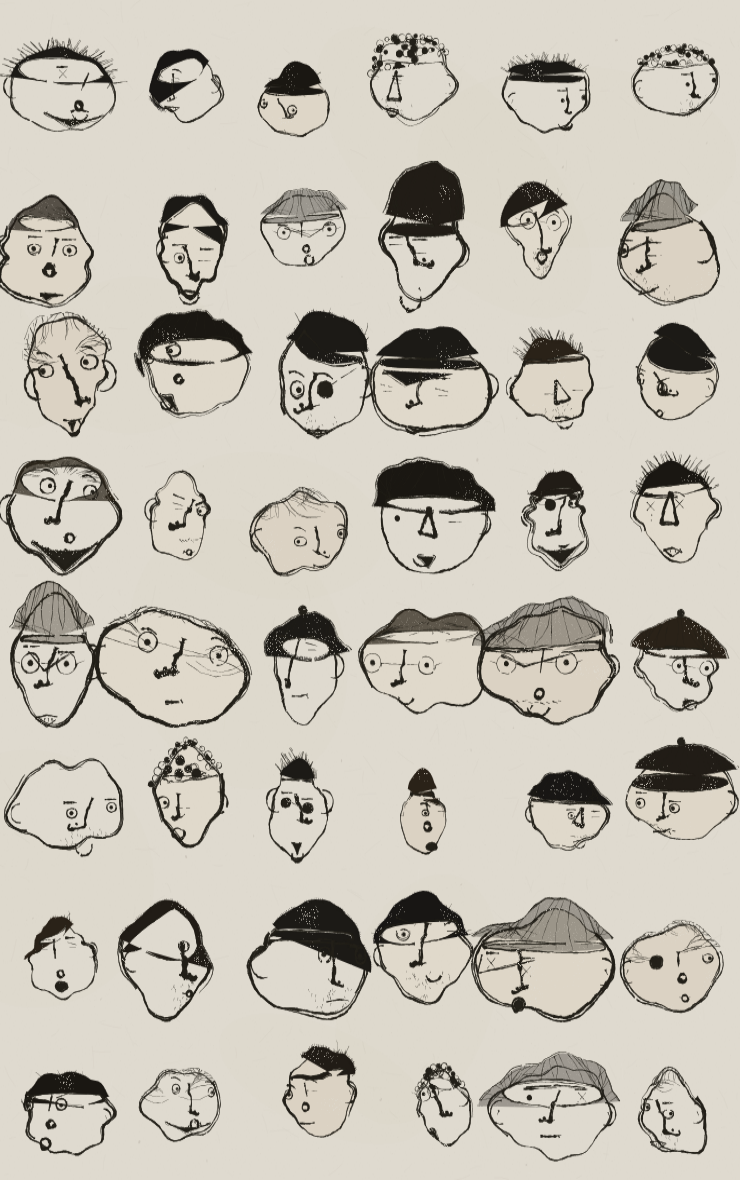
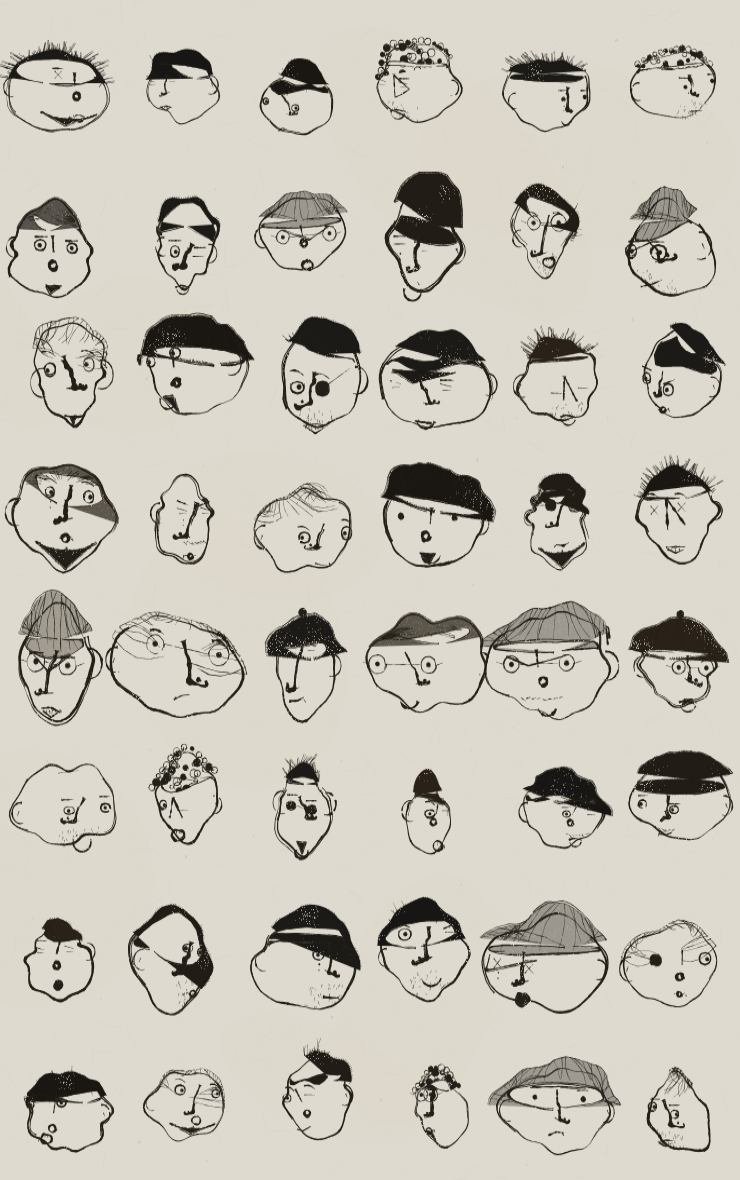
Gauntlet: pure line, decisive strokes, hairlines with shapes
- Colour fills are gone. The reference plates have none; value comes from
  hatching and solid black only, and a sage shirt under an ink head
  announces two different tools.
- Fewer strokes, harder. The critic's note was that the fraying was doing
  the damage: filament flanks now only appear on wide strokes, restated
  contours fire less often, dryness is down and wobble amplitude is down.
  One committed line instead of six nervous ones.
- Hairlines have shapes of their own — peak, round, sweep, receded,
  jagged, low — so the black mass is not the same crescent forty times.
- The triangle nose was a stamped glyph. It is now a wedge drawn in two
  or three separate goes with independent proportions.
- The figure is asymmetric: shoulders, arm lengths and leg placement all
  disagree side to side, and arm width wanders along its length.
- The figure sits lower and larger on the sheet; the name is clamped so
  it cannot run off the edge.

Claude-Session: https://claude.ai/code/session_01RJWY9ufwnD6fjwW6ve4one

diff --git a/dude.js b/dude.js
@@ -132,7 +132,7 @@
     if (n < 2) return;
 
     // hand wobble, applied along the path normal so corners survive
-    const amp = opt.wobble ?? Math.min(2.9, 0.34 + L * 0.017);
+    const amp = opt.wobble ?? Math.min(2.0, 0.26 + L * 0.011);
     const N0 = normals(S);
     const P = new Array(n);
     for (let i = 0; i < n; i++) {
@@ -180,7 +180,7 @@
       // the nib lifts rarely and briefly; a dashed line is a broken pen,
       // not a dry one. Thin strokes skip more than fat ones.
       const dry = fbm2(u * 0.19 + 11, sd * 0.02, sd + 137);
-      const thr = 0.155 * dryK * (w < 1.3 ? 1.35 : w > 2.6 ? 0.6 : 1);
+      const thr = 0.125 * dryK * (w < 1.3 ? 1.4 : w > 2.6 ? 0.5 : 1);
       live[i] = !(dryK > 0 && dry < thr && i > 1 && i < n - 2);
     }
 
@@ -228,14 +228,10 @@
       }
     };
 
-    band(0, 0.68, sd, 0);
-    if (w > 0.9) {
-      band(-0.34, 0.34, sd + 401, 0.4);
-      band(0.34, 0.34, sd + 733, 0.42);
-    }
-    if (w > 2.2) {
-      band(-0.5, 0.22, sd + 907, 0.55);
-      band(0.5, 0.22, sd + 1213, 0.57);
+    band(0, 0.82, sd, 0);
+    if (w > 1.7) {
+      band(-0.32, 0.3, sd + 401, 0.45);
+      band(0.32, 0.3, sd + 733, 0.47);
     }
     // pools where the nib lingered
     for (let k = 3; k < n - 3; k += 2) {
@@ -254,7 +250,7 @@
     nib(c, rng, path, opt);
     // A contour the hand traced twice all the way round. Every head in the
     // reference plates is two lines that touch and part, not one.
-    if (opt.doubled && rng.chance(0.72)) {
+    if (opt.doubled && rng.chance(0.4)) {
       const dn = normals(path);
       const off = rng.f(1.0, 2.1) * (rng.chance(0.5) ? 1 : -1);
       const moved = path.map((q, i) => {
@@ -782,12 +778,12 @@
     const w0 = skull.s * 0.03 * (skull.pen || 1);
     const cranium = arc(-ov, Math.round(n * 0.5) + ov);
     const jaw = arc(Math.round(n * 0.5) - ov, n + ov);
-    inkPoly(c, rng, cranium, { w: w0 * rng.f(0.85, 1.02), dry: 0.45, doubled: rng.chance(0.55) });
-    inkPoly(c, rng, jaw, { w: w0 * rng.f(1.1, 1.4), dry: 0.35, doubled: rng.chance(0.7) });
+    inkPoly(c, rng, cranium, { w: w0 * rng.f(0.88, 1.05), dry: 0.3, doubled: rng.chance(0.35) });
+    inkPoly(c, rng, jaw, { w: w0 * rng.f(1.15, 1.45), dry: 0.22, doubled: rng.chance(0.42) });
     if (rng.chance(0.35)) {
       // a cheek restated on one side only
       const a0 = Math.round(n * rng.f(0.02, 0.12));
-      inkPoly(c, rng, arc(a0, a0 + Math.round(n * rng.f(0.12, 0.26))), { w: w0 * 0.75, dry: 1.2 });
+      inkPoly(c, rng, arc(a0, a0 + Math.round(n * rng.f(0.12, 0.26))), { w: w0 * 0.7, dry: 0.9 });
     }
 
     const earL = pin(skull, { x: -0.92, y: 0.02, z: 0.05 });
@@ -841,6 +837,15 @@
       const temple = Math.pow(Math.abs(Math.sin(u)), 1.4);
       const center = Math.max(0, Math.cos(u));
       let y = lineY - recede * temple + bangs * center + sideBias * Math.sin(u);
+      // A hairline has a shape of its own — a peak, a sweep, a jagged cut —
+      // otherwise every black mass on the sheet is the same crescent.
+      const sh = opt.shape;
+      if (sh === "peak") y += Math.pow(center, 2.2) * 0.16 - temple * 0.05;
+      else if (sh === "round") y -= center * 0.11;
+      else if (sh === "sweep") y += Math.sin(u) * 0.19 + center * 0.04;
+      else if (sh === "receded") y += Math.pow(center, 1.6) * 0.1 - temple * 0.16;
+      else if (sh === "jagged") y += (Math.round(Math.sin(u * 4.7 + 1.3) * 2) / 2) * 0.07;
+      else if (sh === "low") y += 0.07 - temple * 0.03;
       y += (fbm2(u * 1.6 + 4, skull.yaw * 2 + (rng.seed % 53) * 0.07, rng.seed) - 0.5) * wob * 2;
       y = clamp(y, -0.95, 0.3);
       const p = pin(skull, sphere(u, Math.asin(clamp(y, -0.995, 0.995))));
@@ -1007,8 +1012,9 @@
 
   function drawHair(c, rng, skull, hull, style, color) {
     const s = skull.s;
+    const shape = rng.pick(["flat", "peak", "peak", "round", "sweep", "receded", "jagged", "low"]);
     const mk = (opt) => {
-      const h = hairMass(skull, hull, rng, opt);
+      const h = hairMass(skull, hull, rng, Object.assign({ shape }, opt));
       if (h) {
         h._cx = skull.cx;
         h._cy = skull.cy;
@@ -1380,12 +1386,16 @@
     };
 
     if (style === "tri") {
-      inkPoly(c, rng, [A(0, rng.f(-3, 3)), A(drop, -s * 0.19 * lean), A(drop, s * 0.19 * lean)], {
-        closed: true,
-        w: w * 0.9,
-        passes: 2,
-        dry: 0.4,
-      });
+      // a wedge, drawn in two goes, never the same triangle twice
+      const apex = A(rng.f(-0.04, 0.06) * s, rng.f(-4, 4));
+      const wL = A(drop * rng.f(0.86, 1.0), -s * rng.f(0.12, 0.24) * lean);
+      const wR = A(drop * rng.f(0.9, 1.06), s * rng.f(0.14, 0.26) * lean);
+      inkPoly(c, rng, [apex, wL], { w: w * rng.f(0.8, 1.05), dry: 0.35 });
+      inkPoly(c, rng, [apex, wR], { w: w * rng.f(0.7, 0.95), dry: 0.4 });
+      if (rng.chance(0.78)) {
+        inkPoly(c, rng, [wL, A(drop * 1.02, rng.f(-3, 3)), wR], { w: w * rng.f(0.6, 0.9), dry: 0.5 });
+      }
+      if (rng.chance(0.4)) inkCirc(c, rng, wR.x, wR.y, s * 0.02, w * 0.45, true);
       return;
     }
 
@@ -1626,10 +1636,14 @@
     const kneeY = hipY + s * rng.f(0.85, 1.05);
     const footY = hipY + s * rng.f(1.7, 2.05);
     const aw0 = rng.f(0.17, 0.22);
-    const armR = (t) => s * (aw0 - (aw0 - rng.f(0.075, 0.1)) * Math.pow(t, 0.8));
+    const armR = (t) => s * (aw0 - (aw0 - 0.082) * Math.pow(t, 0.75)) * (0.94 + 0.12 * fbm2(t * 3.4, aw0 * 90, 991));
     const legR = (t) => s * (rng.f(0.18, 0.23) - 0.065 * t);
     const pose = clothes.pose;
     const shrug = rng.f(-0.06, 0.1);
+    // no two sides of a drawn person agree
+    const asymL = rng.f(0.86, 1.14);
+    const asymR = rng.f(0.86, 1.14);
+    const asym = (side) => (side < 0 ? asymL : asymR);
 
     const P = (x, y) => ({ x: cx + x + lx * (y - neckY) / (s * 2), y });
 
@@ -1646,17 +1660,18 @@
         return [sh, P(side * (shW + s * 0.14), shY + s * 0.62), P(-side * s * 0.16, shY + s * 0.95)];
       }
       // hanging
+      const a = asym(side);
       return [
         sh,
-        P(side * (shW + s * rng.f(0.02, 0.13)), shY + s * rng.f(0.72, 0.92)),
-        P(side * (shW + s * rng.f(-0.02, 0.2)), shY + s * rng.f(1.5, 1.78)),
+        P(side * (shW + s * rng.f(0.02, 0.13)) * a, shY + s * rng.f(0.72, 0.92) * a),
+        P(side * (shW + s * rng.f(-0.02, 0.2)) * a, shY + s * rng.f(1.5, 1.78) * a),
       ];
     };
 
     const leg = (side) => {
       const drop = footY + s * rng.f(-0.09, 0.09);
       return [
-        P(side * hipW * rng.f(0.48, 0.62), hipY - s * 0.05),
+        P(side * hipW * rng.f(0.48, 0.62) * asym(side), hipY - s * 0.05),
         P(side * (hipW * 0.5 + s * rng.f(-0.14, 0.1)), kneeY + s * rng.f(-0.1, 0.1)),
         P(side * (hipW * 0.46 + s * rng.f(-0.16, 0.16)), drop),
       ];
@@ -1685,8 +1700,8 @@
     // ---- one continuous silhouette ----
     const neckL = P(-s * rng.f(0.15, 0.21), neckY - s * 0.42);
     const neckR = P(s * rng.f(0.15, 0.21), neckY - s * 0.42);
-    const shoulderL = P(-shW, shY + s * shrug * -1);
-    const shoulderR = P(shW, shY + s * shrug);
+    const shoulderL = P(-shW * asymL, shY + s * shrug * -1);
+    const shoulderR = P(shW * asymR, shY + s * shrug + s * rng.f(-0.06, 0.06));
     const waistL = P(-hipW * 1.02, shY + s * 1.25);
     const waistR = P(hipW * 1.02, shY + s * 1.25);
     const hipL = P(-hipW, hipY);
@@ -1868,14 +1883,15 @@
       ], { w: s * (wk ?? 0.014), dry: 0.9, wobble: s * 0.02 });
 
     for (let side = -1; side <= 1; side += 2) {
+      if (rng.chance(0.4)) continue; // not every shoulder gets one
       const sx0 = side < 0 ? shoulderL : shoulderR;
-      const n = rng.i(1, 3);
+      const n = rng.i(1, 2);
       for (let i = 0; i < n; i++) {
         fold(
-          sx0.x - side * s * rng.f(0.06, 0.2),
-          sx0.y + s * rng.f(0.12, 0.3),
-          sx0.x - side * s * rng.f(0.3, 0.55),
-          sx0.y + s * rng.f(0.45, 0.8)
+          sx0.x - side * s * rng.f(0.1, 0.28),
+          sx0.y + s * rng.f(0.16, 0.4),
+          sx0.x - side * s * rng.f(0.34, 0.7),
+          sx0.y + s * rng.f(0.5, 1.0)
         );
       }
     }
@@ -1913,12 +1929,12 @@
           ], { w: heavy, dry: 0.5, wobble: s * 0.03 });
         }
       } else if (clothes.pattern === "vstripe") {
-        for (let x = cx - shW * 1.3; x < cx + shW * 1.3; x += pitch) {
+        for (let x = cx - shW * 1.3; x < cx + shW * 1.3; x += pitch * rng.f(0.75, 1.3)) {
           inkPoly(c, rng, [
-            { x, y: shY - s * 0.1 },
+            { x, y: shY + s * rng.f(-0.1, 0.15) },
             { x: x + rng.f(-4, 4), y: (shY + hemY) / 2 },
-            { x: x + rng.f(-5, 5), y: hemY + s * 0.1 },
-          ], { w: heavy * 0.7, dry: 0.6, wobble: s * 0.03 });
+            { x: x + rng.f(-5, 5), y: hemY - s * rng.f(-0.1, 0.2) },
+          ], { w: heavy * 0.42, dry: 0.9, wobble: s * 0.03 });
         }
       } else if (clothes.pattern === "dark") {
         // a black garment, so the bottom of the page carries weight too
@@ -2201,14 +2217,16 @@
       "recede", "bald",
     ];
     const eyeStyles = ["open", "open", "open", "open", "dot", "dot", "slit", "angry", "x", "glasses", "glasses", "shades", "patch", "wink"];
-    const noseStyles = ["long", "long", "long", "long", "hook", "hook", "hook", "tri", "button"];
+    const noseStyles = ["long", "long", "long", "long", "long", "hook", "hook", "hook", "hook", "tri", "button", "button"];
     const mouthStyles = ["smile", "smile", "frown", "open", "open", "teeth", "smirk", "lips", "pucker", "line", "line"];
     const beardStyles = ["none", "none", "none", "stache", "goatee", "beard", "stubble"];
     const clothesKinds = ["tee", "hoodie", "jacket", "sweater"];
     const poses = ["down", "down", "pockets", "hips", "folded"];
-    const washes = [null, "#e8c4a8", "#c4a07a", "#9aa87a", "#b9c4c8", "#d8b090"];
+    // Value comes from hatching and solid black. The reference sheets have no
+    // fill at all, and a sage shirt under an ink head reads as two media.
+    const washes = [null];
     const hairColors = ["#1a1712", "#211c16", "#181614", "#2a2218", "#1c1a16"];
-    const skins = [null, "#e8d2bc", "#d8c0a4", "#c9a888", null];
+    const skins = [null];
 
     return {
       name: rng.chance(0.55) ? rng.pick(FIRST) : `${rng.pick(FIRST)} ${rng.pick(LAST)}`,
@@ -2253,7 +2271,7 @@
     paper(c, w, h, rng);
     const s = dude.size;
     const cx = w * rng.f(0.38, 0.48) + rng.f(-8, 8);
-    const cy = h * 0.245 + rng.f(-10, 10);
+    const cy = h * 0.225 + rng.f(-10, 10);
 
     const skull = new Skull(cx, cy, s, dude.yaw, dude.pitch, dude.roll, dude.ratio, dude.depth, {
       jaw: dude.jaw,
@@ -2275,7 +2293,7 @@
     skull.faceY = dude.faceY;
     skull.gaze = dude.gaze;
     skull.eyeGap = dude.eyeGap;
-    const body = drawBody(c, rng, cx, cy + s * 1.18, s * 0.8, dude.lean + dude.yaw * 0.25, dude.clothes);
+    const body = drawBody(c, rng, cx, cy + s * 1.18, s * 0.9, dude.lean + dude.yaw * 0.25, dude.clothes);
     const hull = drawHead(c, rng, skull, dude.skin);
     drawHair(c, rng, skull, hull, dude.hair, dude.hairColor);
     drawBrows(c, rng, skull, dude.brows);
@@ -2303,7 +2321,8 @@
       nameX = cx + s * rng.f(1.0, 1.35);
       nameY = cy + s * rng.f(0.1, 0.6);
     }
-    nameX = Math.max(16, Math.min(w - size * String(dude.name).length * 0.95 - 14, nameX));
+    const nameW = size * (String(dude.name).length * 0.92 + 0.6);
+    nameX = Math.max(16, Math.min(w - nameW - 12, nameX));
     nameY = Math.max(size * 1.2, Math.min(h - size * 1.6, nameY));
     drawName(c, rng, dude.name, nameX, nameY, size);
     grainPass(c);
@@ -2326,9 +2345,9 @@
       for (let col = 0; col < cols; col++) {
         const rng = new Rng((seed0 + (r * cols + col) * 7919) >>> 0);
         const d = makeDude(rng);
-        const s = Math.min(cw, ch) * rng.f(0.26, 0.42) * rowS;
-        const cx = cw * (col + 0.5) + rowDx + rng.f(-13, 13);
-        const cy = 18 + ch * (r + 0.5) + rowDy + rng.f(-11, 11);
+        const s = Math.min(cw, ch) * rng.f(0.27, 0.37) * rowS;
+        const cx = cw * (col + 0.5) + rowDx + rng.f(-7, 7);
+        const cy = 18 + ch * (r + 0.5) + rowDy + rng.f(-8, 8);
         const skull = new Skull(cx, cy, s, d.yaw, d.pitch, d.roll, d.ratio, d.depth, {
           jaw: d.jaw, chin: d.chin, crown: d.crown, cheek: d.cheek,
           lobeA: d.lobeA, lobeB: d.lobeB, lobeAmp: d.lobeAmp, lobePh: d.lobePh,

diff --git a/progress.html b/progress.html
@@ -7,29 +7,32 @@
 <style>
   :root { --paper:#dfdacf; --ink:#232019; }
   body { margin:0; background:var(--paper); color:var(--ink);
-         font:15px/1.55 ui-serif, Georgia, serif; }
-  main { max-width: 1080px; margin: 0 auto; padding: 40px 22px 90px; }
-  h1 { font-size: 30px; margin: 0 0 4px; letter-spacing: -0.01em; }
-  h2 { font-size: 20px; margin: 44px 0 10px; }
-  p.lede { margin: 0 0 30px; opacity: .75; }
-  .grid { display:grid; gap:14px; grid-template-columns: repeat(auto-fill, minmax(210px,1fr)); }
-  .grid img { width:100%; display:block; border:1px solid rgba(35,32,25,.18); }
+         font:15.5px/1.6 ui-serif, Georgia, serif; }
+  main { max-width: 1080px; margin: 0 auto; padding: 44px 22px 100px; }
+  h1 { font-size: 31px; margin: 0 0 6px; letter-spacing: -0.01em; }
+  h2 { font-size: 21px; margin: 50px 0 12px; }
+  h3 { font-size: 16px; margin: 26px 0 6px; }
+  p.lede { margin: 0 0 32px; opacity: .75; }
+  .grid { display:grid; gap:14px; grid-template-columns: repeat(auto-fill, minmax(205px,1fr)); }
+  .grid img { width:100%; display:block; border:1px solid rgba(35,32,25,.16); }
   .pair { display:grid; gap:16px; grid-template-columns: 1fr 1fr; align-items:start; }
-  .pair img { width:100%; display:block; border:1px solid rgba(35,32,25,.18); }
-  figcaption { font-size:12.5px; opacity:.65; padding-top:5px; }
-  ol { padding-left: 20px; }
-  li { margin-bottom: 9px; }
+  .pair img { width:100%; display:block; border:1px solid rgba(35,32,25,.16); }
+  figcaption { font-size:12.5px; opacity:.62; padding-top:5px; }
+  ol, ul { padding-left: 20px; }
+  li { margin-bottom: 10px; }
   code { background: rgba(35,32,25,.07); padding: 1px 5px; border-radius: 3px; font-size: 13px; }
-  .note { border-left: 2px solid rgba(35,32,25,.3); padding-left: 14px; opacity:.8; }
+  blockquote { margin: 10px 0 16px; border-left: 2px solid rgba(35,32,25,.3);
+               padding-left: 15px; opacity:.82; font-style: italic; }
+  .note { border-left: 2px solid rgba(35,32,25,.28); padding-left: 15px; opacity:.82; }
 </style>
 </head>
 <body>
 <main>
   <h1>a dude — progress</h1>
-  <p class="lede">Canvas 2D. One dude per click, drawn on a hidden 3D skull. The bar is Mannay's plates in <code>refs/</code>.</p>
+  <p class="lede">Canvas 2D. One dude per click, drawn on a hidden 3D skull. The bar is Mannay's plates in <code>refs/</code>. Nobody grades their own work here: every round is judged by critics with fresh context who are shown the sheets unlabelled and asked which they'd rather look at.</p>
 
   <h2>Plate mode — like for like</h2>
-  <p class="note">The fairest test is a sheet against a sheet. <code>index.html?plate=1</code> renders 48 heads on one page, the same format as the reference plates. Ours on the left, Mannay on the right.</p>
+  <p class="note">A sheet is only fairly judged against a sheet. <code>index.html?plate=1</code> renders 48 heads on one page in the same format as the reference plates, so the blind A/B is honest. Ours left, Mannay right.</p>
   <div class="pair">
     <figure style="margin:0"><img src="progress/shots/plate-2026.png" alt="our plate" /><figcaption>ours — <code>?plate=1&amp;s=2026</code></figcaption></figure>
     <figure style="margin:0"><img src="refs/mannay-sheet-1.jpg" alt="reference plate" /><figcaption>Mannay, sheet 1</figcaption></figure>
@@ -38,33 +41,50 @@
   <h2>Full dudes</h2>
   <div class="grid">
     <figure style="margin:0"><img src="progress/shots/s42.png" alt="seed 42" /><figcaption>s=42</figcaption></figure>
+    <figure style="margin:0"><img src="progress/shots/s88.png" alt="seed 88" /><figcaption>s=88</figcaption></figure>
     <figure style="margin:0"><img src="progress/shots/s777.png" alt="seed 777" /><figcaption>s=777</figcaption></figure>
     <figure style="margin:0"><img src="progress/shots/s1107.png" alt="seed 1107" /><figcaption>s=1107</figcaption></figure>
-    <figure style="margin:0"><img src="progress/shots/s2026.png" alt="seed 2026" /><figcaption>s=2026</figcaption></figure>
-    <figure style="margin:0"><img src="progress/shots/s4929.png" alt="seed 4929" /><figcaption>s=4929</figcaption></figure>
-    <figure style="margin:0"><img src="progress/shots/s88.png" alt="seed 88" /><figcaption>s=88</figcaption></figure>
-    <figure style="margin:0"><img src="progress/shots/s333.png" alt="seed 333" /><figcaption>s=333</figcaption></figure>
     <figure style="margin:0"><img src="progress/shots/s1500.png" alt="seed 1500" /><figcaption>s=1500</figcaption></figure>
+    <figure style="margin:0"><img src="progress/shots/s2026.png" alt="seed 2026" /><figcaption>s=2026</figcaption></figure>
+    <figure style="margin:0"><img src="progress/shots/s333.png" alt="seed 333" /><figcaption>s=333</figcaption></figure>
+    <figure style="margin:0"><img src="progress/shots/s4929.png" alt="seed 4929" /><figcaption>s=4929</figcaption></figure>
   </div>
 
-  <h2>This round — what actually changed</h2>
-  <p class="note">The previous round lost 5–0 and the note from the critics was: stop adding geometry, change how the marks look. So nothing new was layered on. Six things were replaced.</p>
-  <ol>
-    <li><strong>The nib.</strong> Strokes were butt-capped line segments at partial alpha, which is why everything read grey and seamed. A stroke is now a <em>filled</em> variable-width ribbon at full opacity — a solid wet core with loose filaments down each flank that catch and drop out on their own. Width comes from two octaves of pressure noise, ink pools at starts, stops and hard corners, and the nib lifts briefly where the paper tooth is high. Thin strokes skip more than fat ones.</li>
-    <li><strong>Doubled contours.</strong> Every head in the reference plates is two lines that touch and part, not one. <code>doubled</code> traces the whole contour a second time at a drifting offset.</li>
-    <li><strong>Hair owns the crown.</strong> It used to be a cap shape parked on top of the skull — a toupee. A mass is now built from two edges: a hairline pinned across the face, and <em>the skull's own silhouette above it</em>, pushed outward by the thickness of the hair. The head outline can no longer show through, and the mass wraps whatever the skull does under yaw. Combed and ribbed variants run stroke-by-stroke from the outer edge down to the hairline without crossing.</li>
-    <li><strong>Lumpy skulls.</strong> The outline was a convex hull, which can only ever be an egg. It is now the radial extent of the projected skull plus a per-seed lump profile on integer harmonics, so it can dent inward, and one optional flattened facet — a squared temple, a cut-off jaw.</li>
-    <li><strong>One heavy nose.</strong> Built on the face's projected vertical axis rather than raw 3D points, so it rides the skull through a turn instead of walking across the cheek. One unbroken run from between the brows to the tip, turning under into the nostril, at up to 1.5× the weight of anything else on the face.</li>
-    <li><strong>The body is drawn, not assembled.</strong> Gone: trapezoid chassis, ribbon tubes. The figure is one continuous silhouette — neck, shoulders, sides, legs, round the shoes — with the arms as their own shapes laid in front of it. Clothes cut into that: necklines, hems, cuffs, plackets, stripes clipped to the body.</li>
-  </ol>
-  <p>Plus: every pen weight now scales with head size (small heads were reading as blobs), features are clamped inside the silhouette so nothing slides off on a hard turn, and the <em>another dude</em> button is written in the same ink as the drawing instead of typeset Georgia.</p>
+  <h2>What the critics kept saying</h2>
+  <p class="note">Three rounds of blind A/B against the plates. Every round they picked ours out, and mostly for the same reasons. Those reasons are the changelog.</p>
+
+  <h3>“Zero pressure modulation. Every stroke is the same width from entry to exit.”</h3>
+  <p>Said in three separate rounds, and correct all three times. The pressure noise had a wavelength longer than most strokes, so each line drew one sample of it and came out at a constant width. The wave is now scaled to the <em>stroke</em> — one to five swells along it whatever its length — so a contour thins through a straight and bears down through a turn. Underneath that, a stroke is a filled variable-width ribbon at full opacity: a wet core plus loose filaments down each flank that catch and drop out on their own. The old strokes were butt-capped segments at partial alpha, which is why everything read grey and seamed.</p>
+
+  <h3>“The contour is one uninterrupted noise-perturbed circle, which is why the faces read as stickers rather than heads.”</h3>
+  <p>A head is now a cranium drawn over and a jaw drawn under. They overshoot and cross where they meet, the jaw carries about 30% more weight, and one cheek gets restated on one side only.</p>
+
+  <h3>“Hair is a shape pasted on. The head reads whole underneath it.”</h3>
+  <p>Hair masses are built from two edges: a hairline pinned across the face, and <em>the skull's own silhouette above it</em>, pushed outward by the thickness of the hair. The head outline can no longer show through, and the mass wraps whatever the skull does under yaw. The outer edge is made of stroke ends rather than a filled polygon; the hairline stays a clean cut, because a hairline is a decision.</p>
+
+  <h3>“Every skull is widest at the same relative height.”</h3>
+  <p>The outline used to be a convex hull, which can only ever be an egg. It is now the radial extent of the projected skull plus a per-seed lump profile on integer harmonics — so it can dent <em>inward</em> — with an optional brow ridge and one flat facet. Skulls pick from six archetypes: round, long-jaw, tall cranium, block, pear, egg. Silhouette is all that reads at grid scale.</p>
+
+  <h3>“Short hairs of identical length, spacing and weight radiating perpendicular to the outline — including where no hair grows.”</h3>
+  <p>Strays now come in one to three tufts, at wildly mixed lengths, with curl, and only on some heads.</p>
+
+  <h3>“The nose is one stamped glyph.”</h3>
+  <p>It is built on the face's projected vertical axis rather than raw 3D points, so it rides a turn instead of walking across the cheek. One unbroken run from between the brows to the tip that <em>breaks direction once at the bridge</em>, tilts a few degrees off the head axis, turns under into the nostril, and carries up to 1.9× the weight of anything else on the face.</p>
+
+  <h3>“Repeated letters are identical. Fatal. A hand never repeats.”</h3>
+  <p>Each glyph is now sheared, unevenly squashed and control-point jittered, so the two O's in a name never superimpose. The baseline drifts and does not come back, the end of a word gets cramped and drops, strokes overshoot their joins, case is mixed, and the underline is a scratch in two or three goes.</p>
+
+  <h3>“The body is assembled; the head is drawn.”</h3>
+  <p>Gone: trapezoid chassis, ribbon tubes. The figure is one continuous silhouette — neck, shoulders, sides, legs, round the shoes — with the arms as their own shapes laid in front of it, at the same pen weight and the same wobble as the head. Straight runs are subdivided so the pen has somewhere to wander. Cloth has folds at the armpit, gathers above the hem, shadow under it, pocket marks, and hands.</p>
+
+  <h3>“The paper is a single flat RGB value with no fibre or tooth.”</h3>
+  <p>Blooms, then fibre lying in the sheet, then tooth, then the odd fleck of pulp. And the tooth that shows through a black mass now appears in patches where the sheet rides high, not as an even sprinkle.</p>
 
   <h2>Still open</h2>
   <ul>
-    <li>Nose variety — the long one dominates; the reference has more kinds of nose than we do.</li>
     <li>Hatched hair is lighter than the reference's.</li>
-    <li>Mouths are still mostly a horizontal dash.</li>
-    <li>The body has no reference plate to be judged against, so it is judged on its own terms.</li>
+    <li>The body has no reference plate to be judged against, so it is judged only on whether it looks like the same hand as the head.</li>
+    <li>Nose variety: the long one still dominates.</li>
   </ul>
 </main>
 </body>
